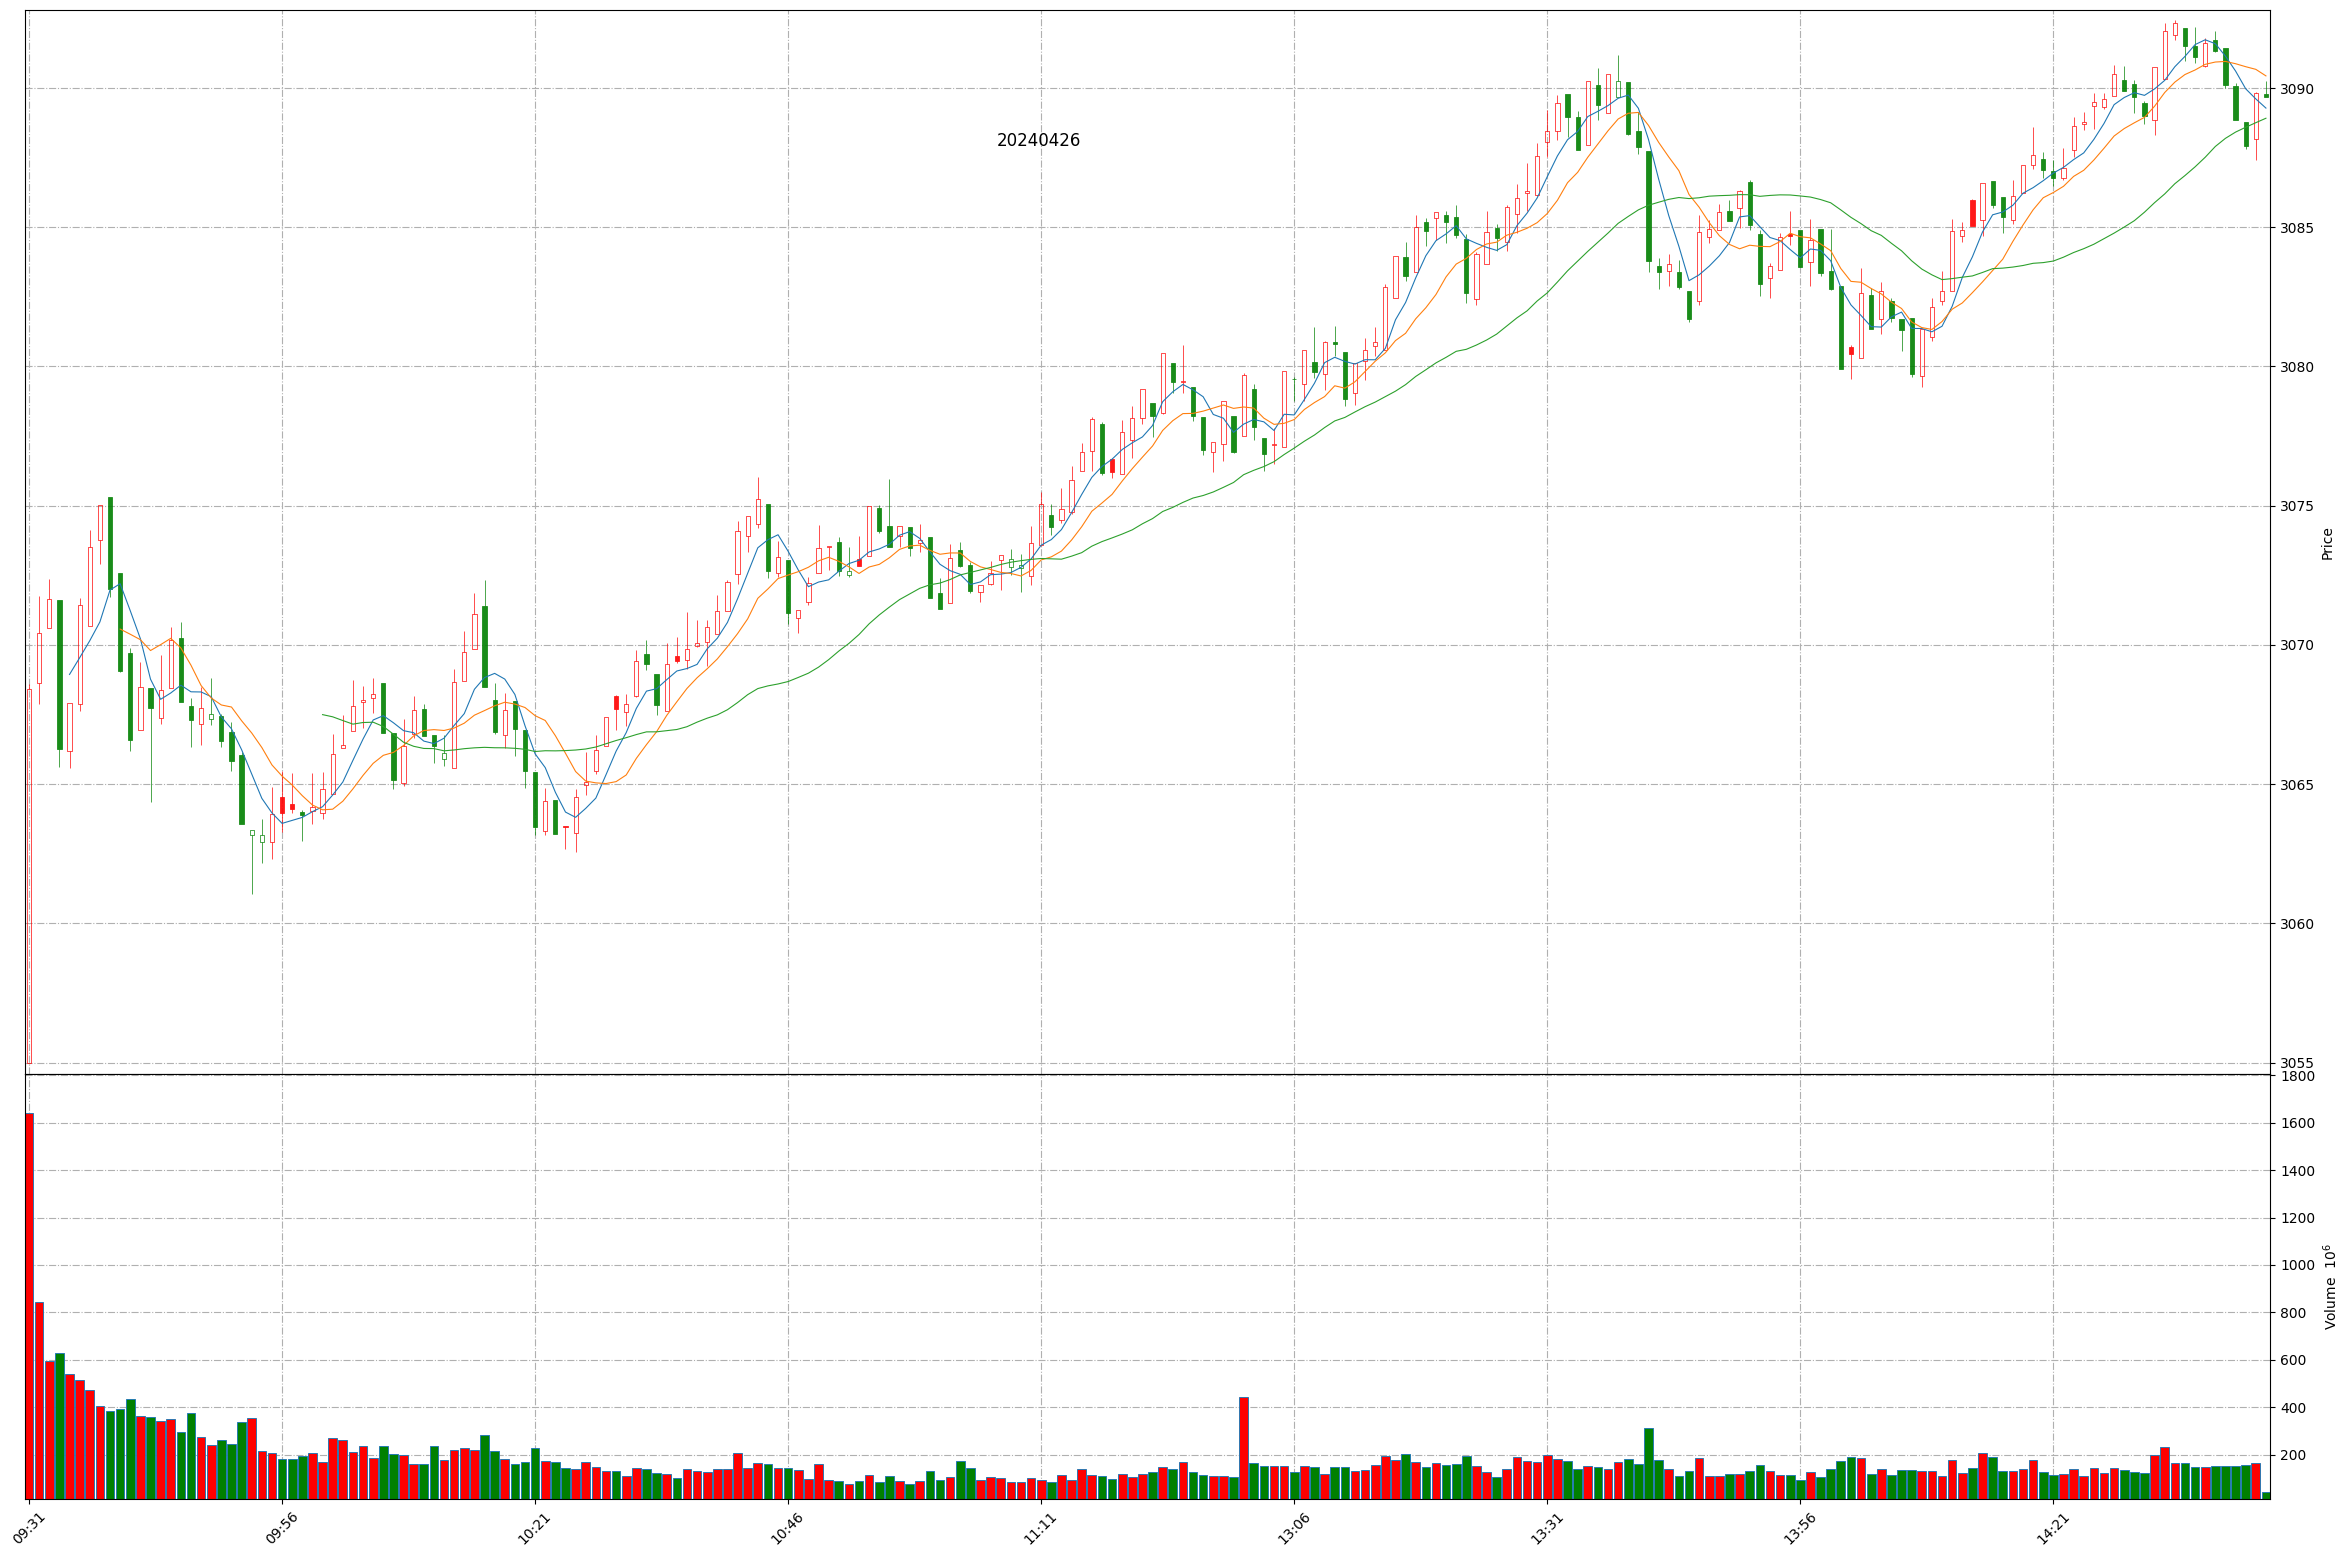
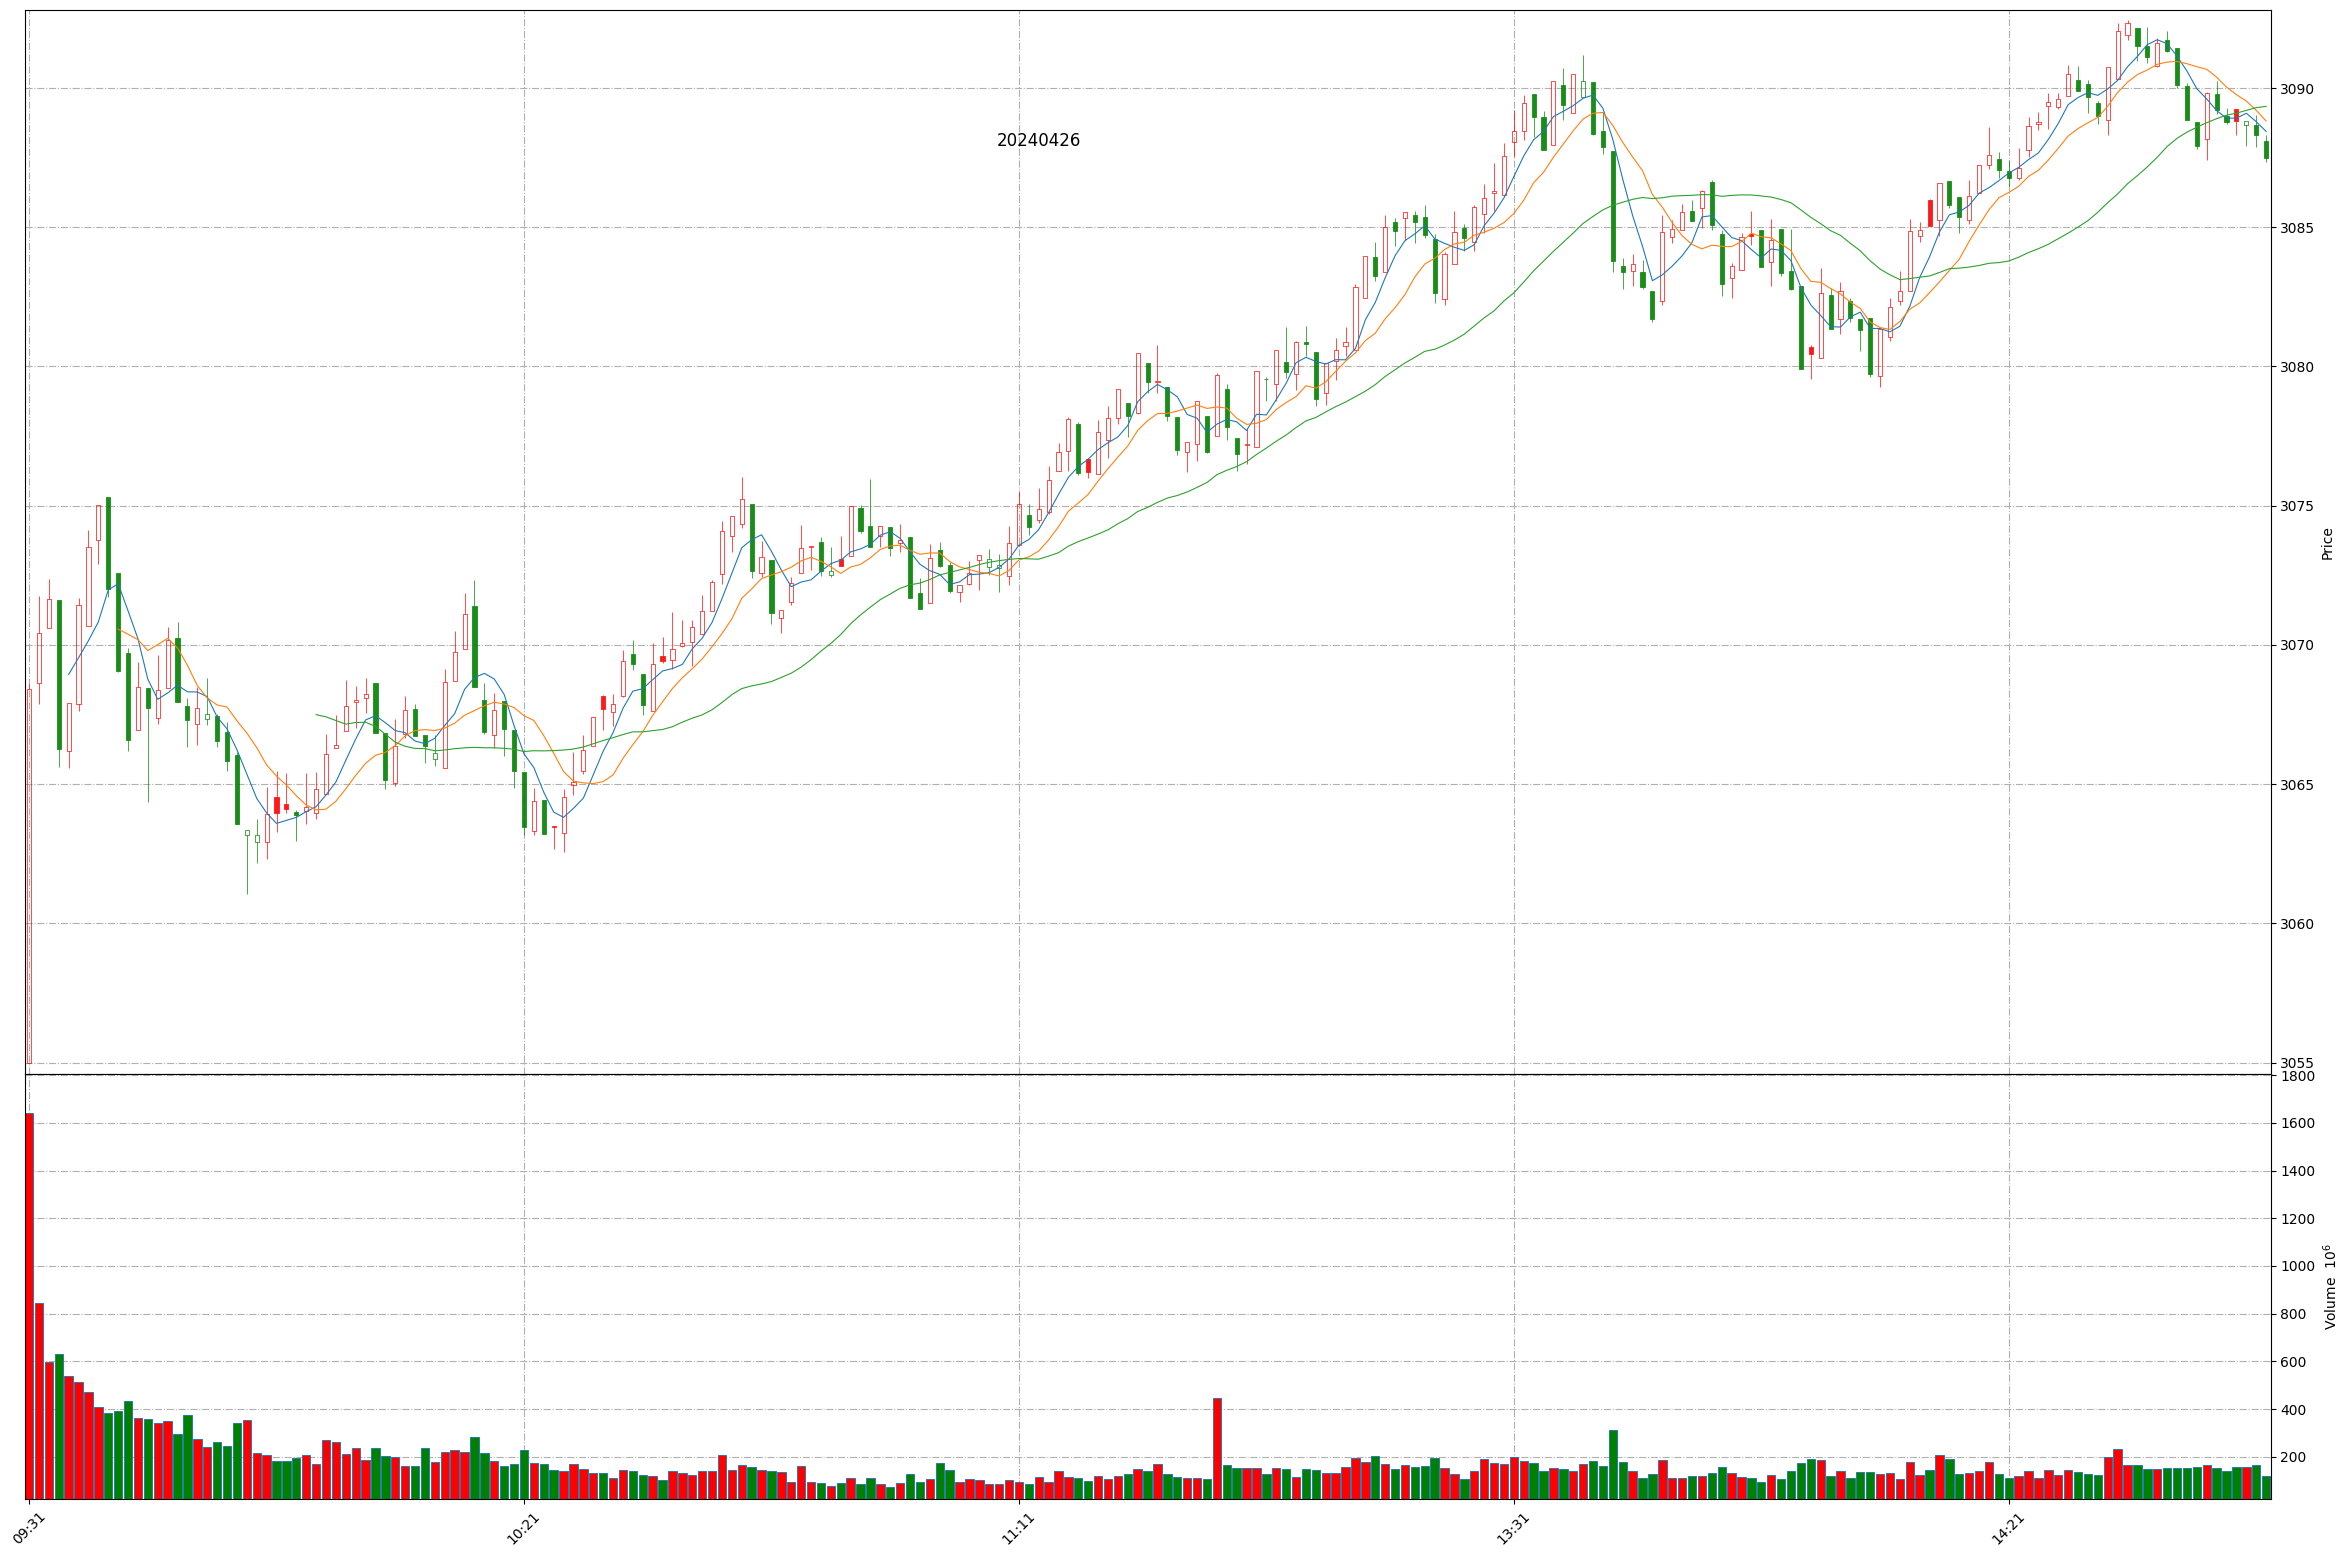
Github action update at 2024-04-26 14:47:09.

diff --git a/README.md b/README.md
@@ -1,11 +1,11 @@
 
 # Daily-A-share-market-quotes 每日 A 股指数（5min 更新）- 20240426
 
-### 上证指数 20240426 14:41
+### 上证指数 20240426 14:47
 ![](./fig/2024/4/20240426-sh000001.png)
 
-### 深证成指 20240426 14:41
+### 深证成指 20240426 14:47
 ![](./fig/2024/4/20240426-sz399001.png)
 
-### 北证50 20240426 14:41
+### 北证50 20240426 14:47
 ![](./fig/2024/4/20240426-bj899050.png)
